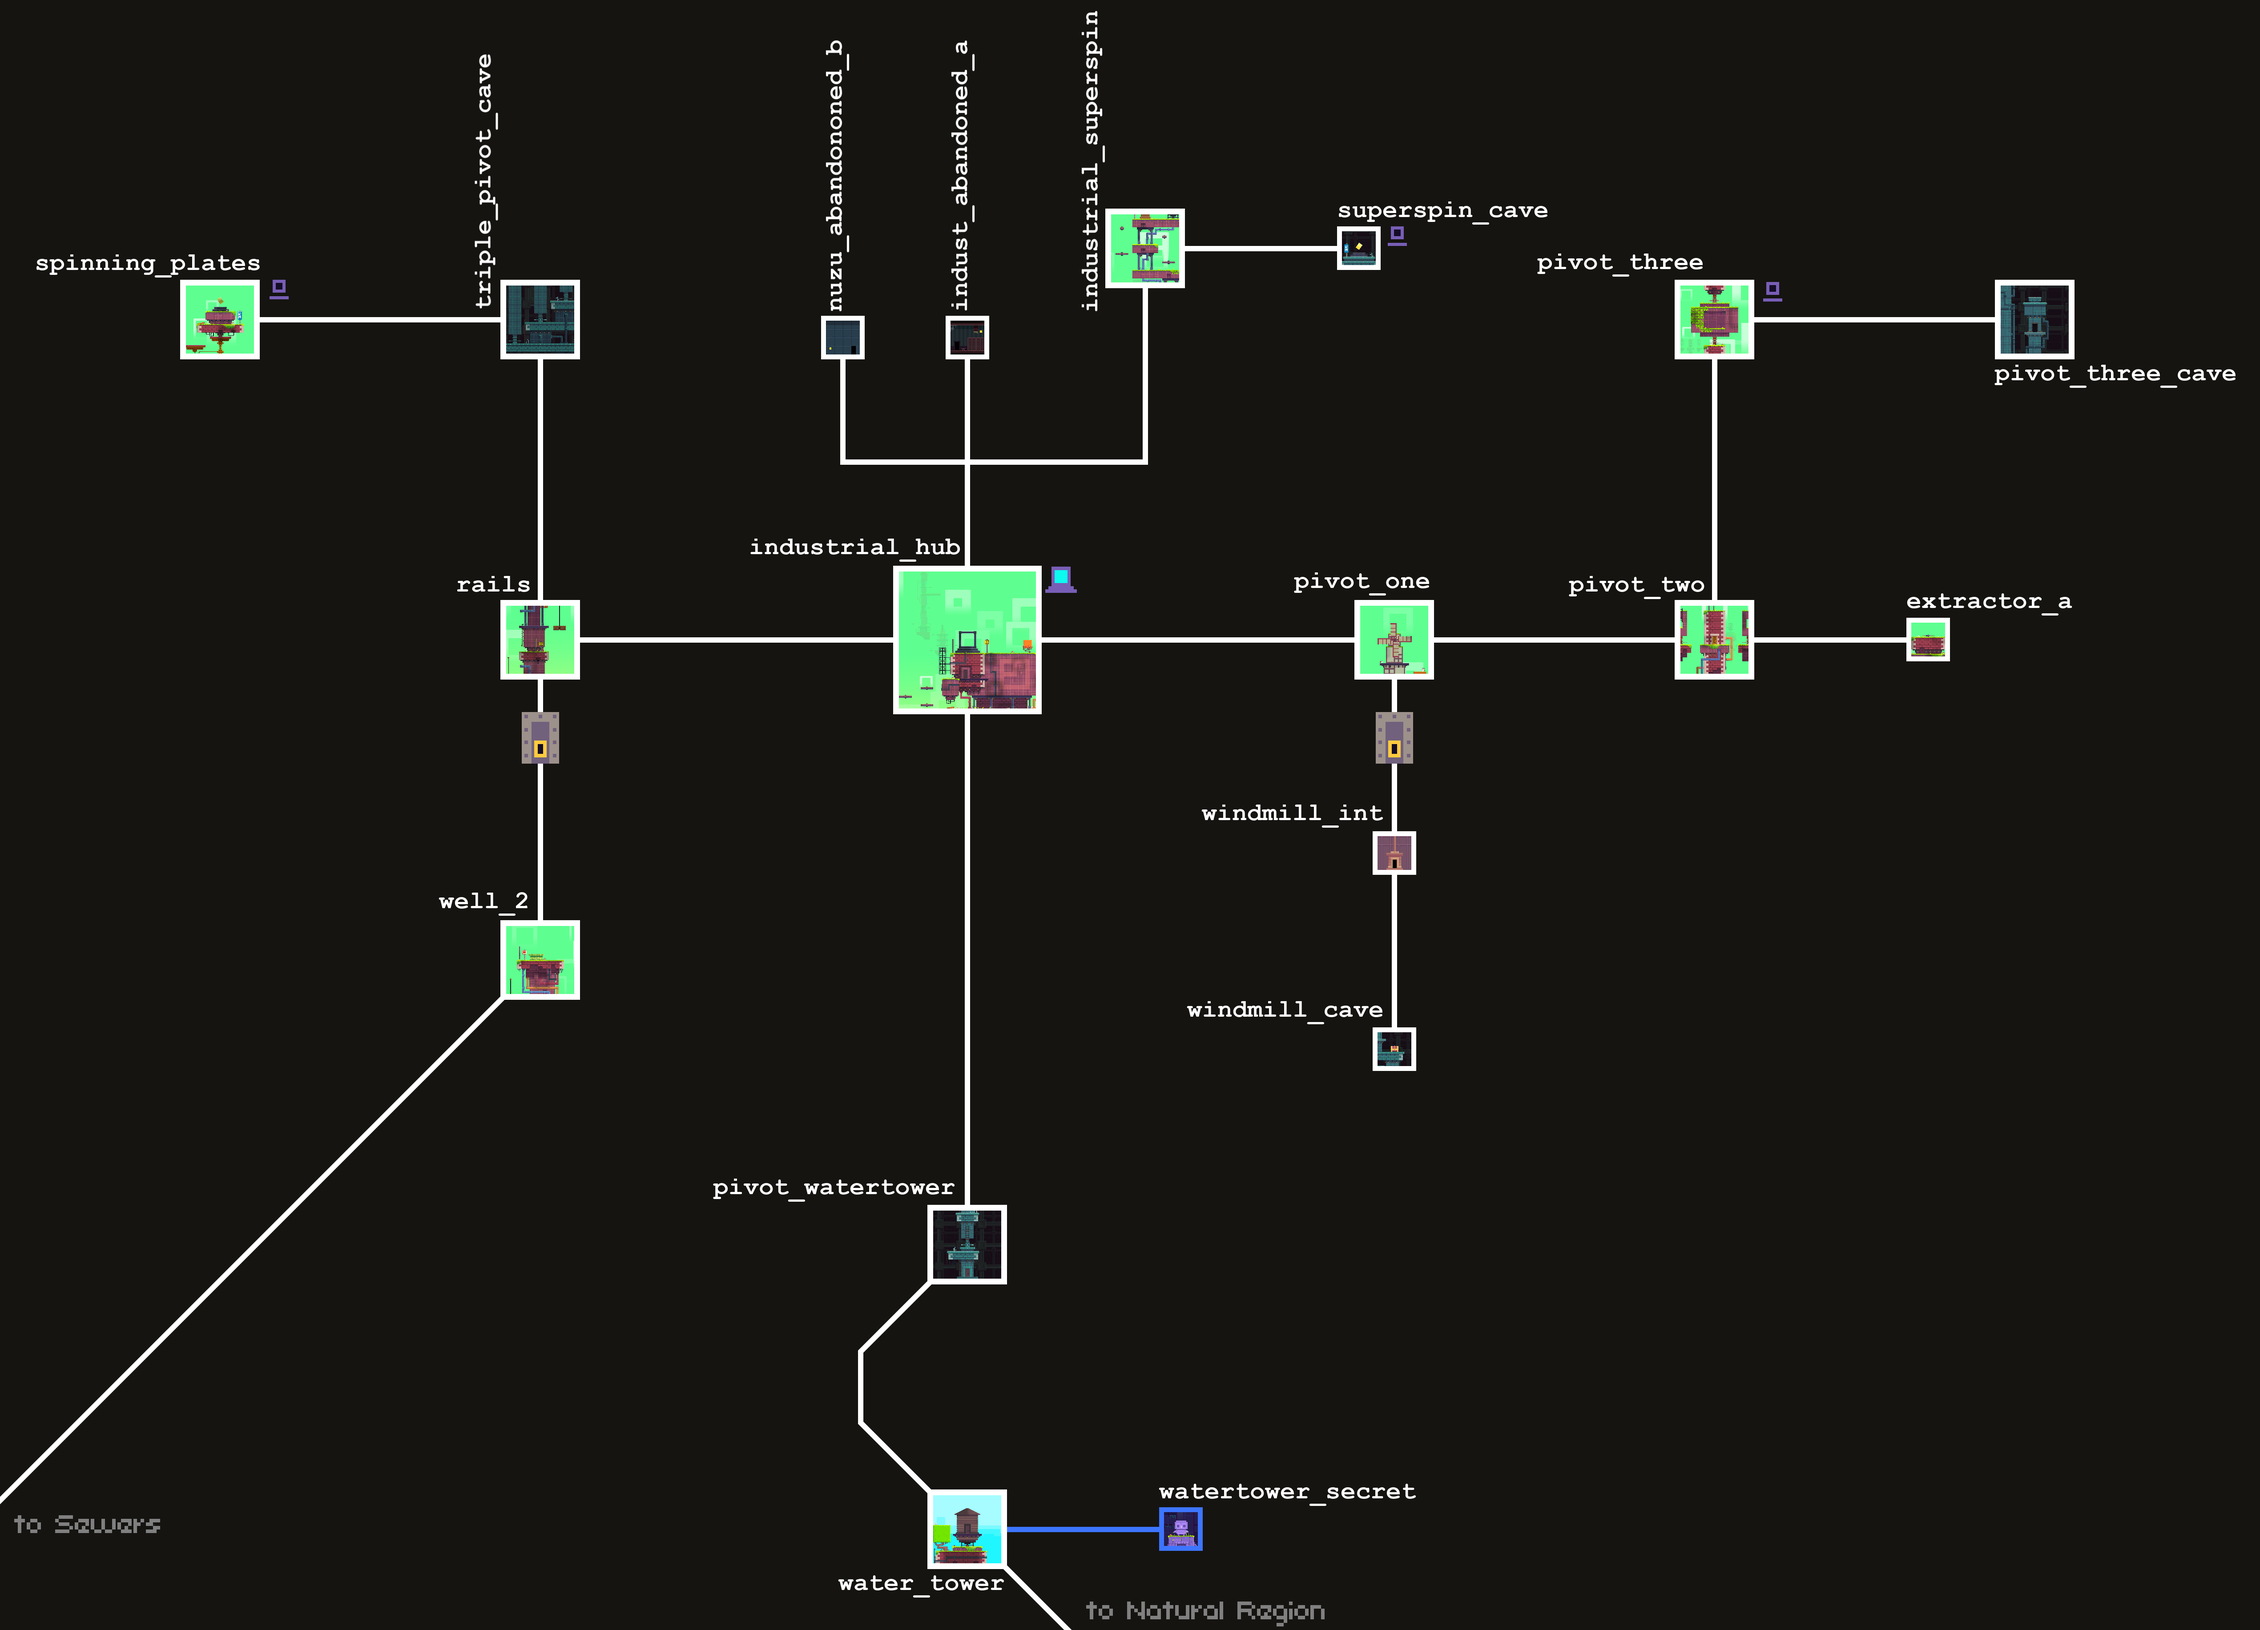
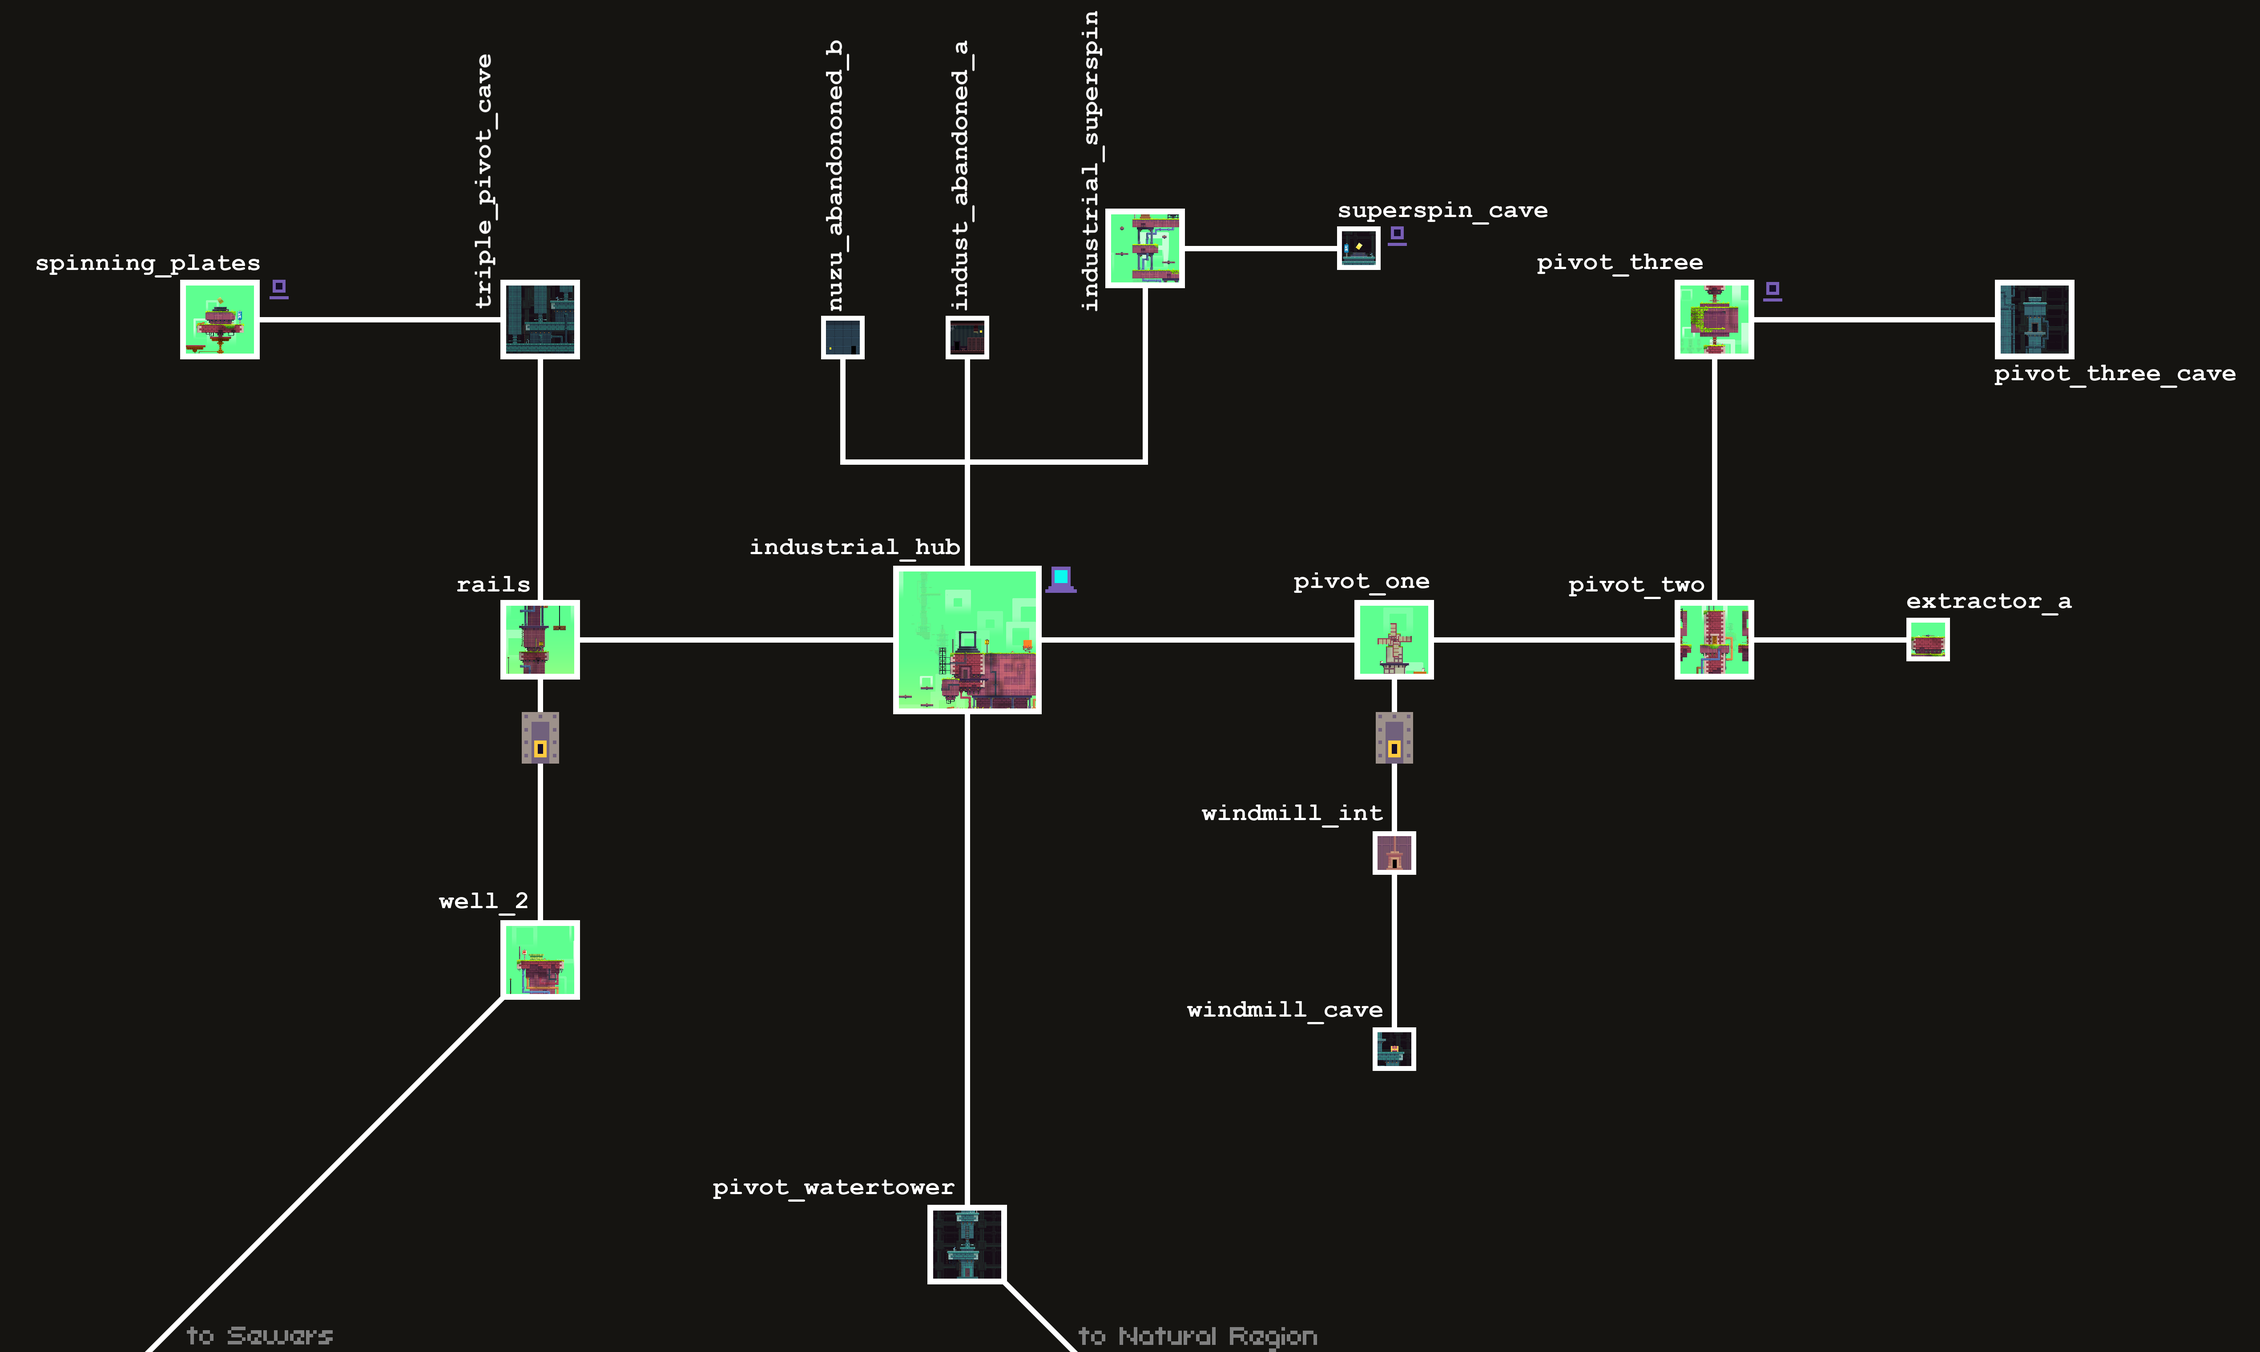
Watertower moved to Natural

diff --git a/README.md b/README.md
@@ -1,9 +1,10 @@
-# Gomez Automated Tracker - A PopTracker pack for FezAP
+# ![thumbnail](images/icon.png) Gomez Automated Tracker - A PopTracker pack for FezAP
 
 ## Quick Links
 - [Archipelago](https://archipelago.gg/)
 - [HAT](https://github.com/FEZModding/HAT)
 - [FezAP](https://github.com/nhyldmar/fez-ap)
+- Based on [this Map](https://steamcommunity.com/sharedfiles/filedetails/?id=2811670194) by wertuias12
 
 ## About
 This is the PopTracker Pack for FezAP, the Archipelago integration mod for Fez.
@@ -17,5 +18,5 @@ This is the PopTracker Pack for FezAP, the Archipelago integration mod for Fez.
 
 ## Installation
 
-1. Download the latest release
+1. Download the latest release.
 2. Place the downloaded zip file in the PopTracker packs directory.
